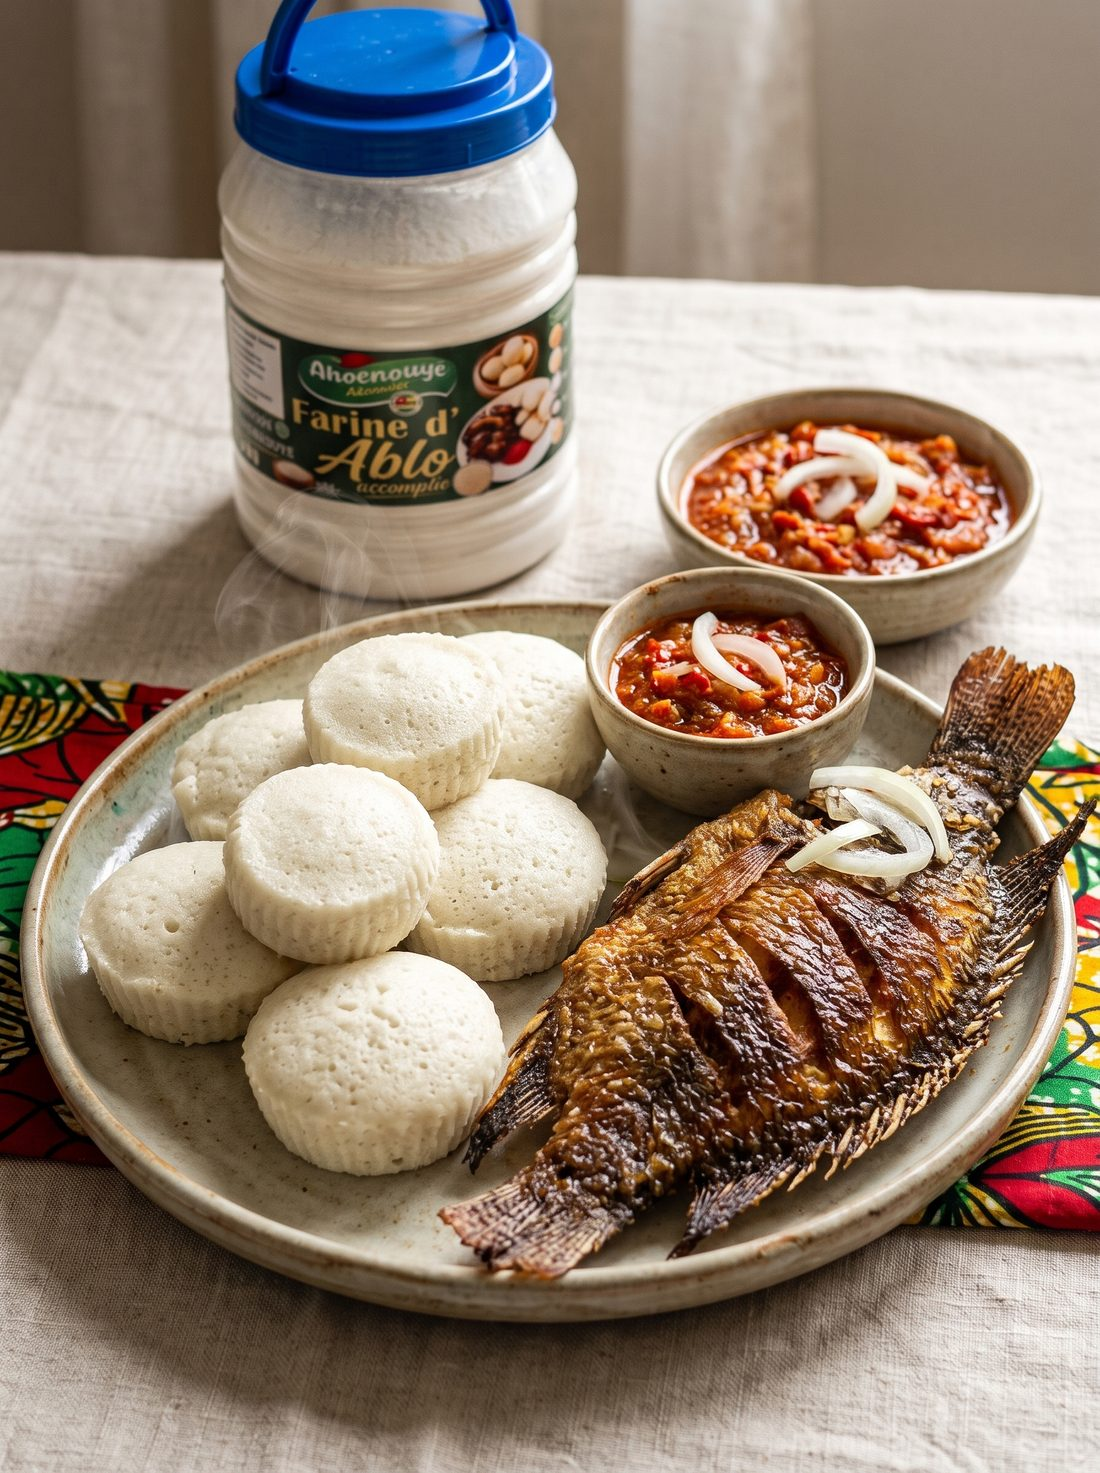
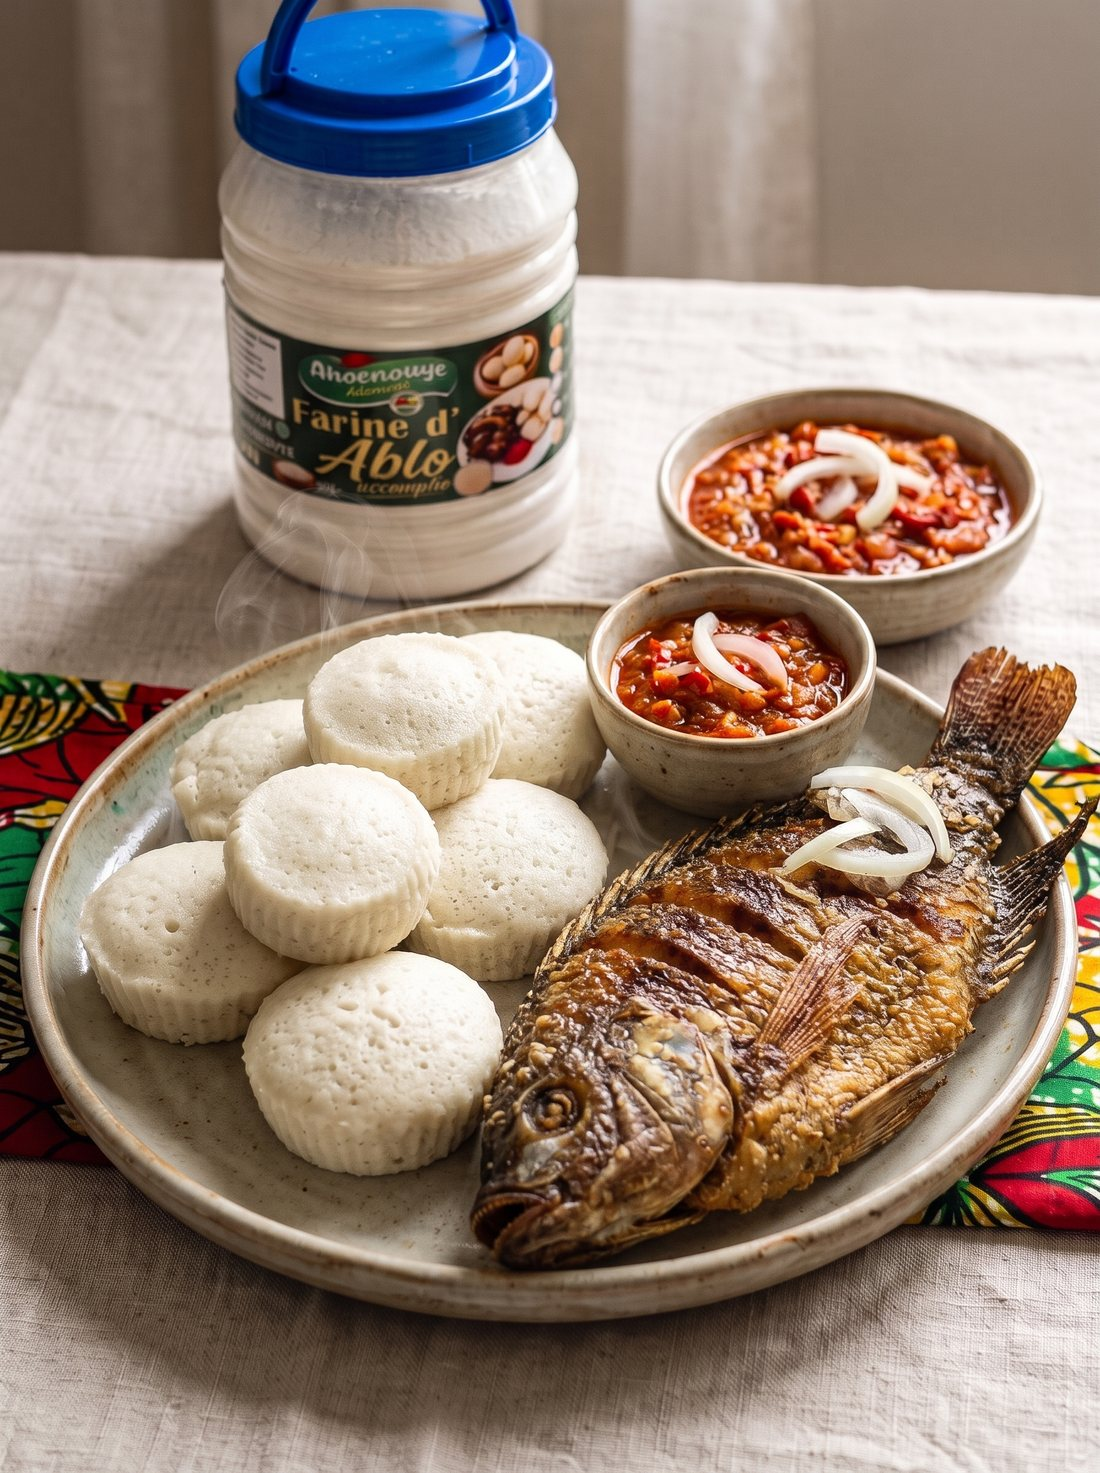
Image de l'Ablo : poisson corrigé (une tête, une seule queue)

diff --git a/index.html b/index.html
@@ -524,7 +524,7 @@ footer a:hover{color:#fff}
     </div>
     <div class="grid-p">
       <article class="card feature rv" data-cat="plat">
-        <div class="img"><img src="assets/ablo.jpg" alt="Farine d'Ablo Ahoénouyé avec ablo et poisson frit" loading="lazy"><span class="pill r">Best-seller</span></div>
+        <div class="img"><img src="assets/ablo.jpg?v=2" alt="Farine d'Ablo Ahoénouyé avec ablo et poisson frit" loading="lazy"><span class="pill r">Best-seller</span></div>
         <div class="body">
           <h3>Farine d'Ablo accomplie</h3>
           <div class="for">Pour : ablo moelleux du dimanche</div>
